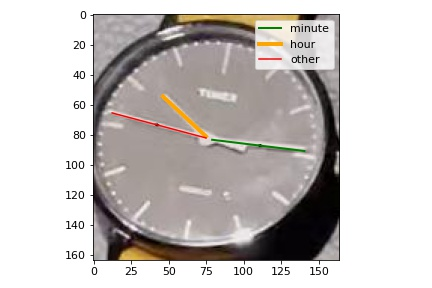
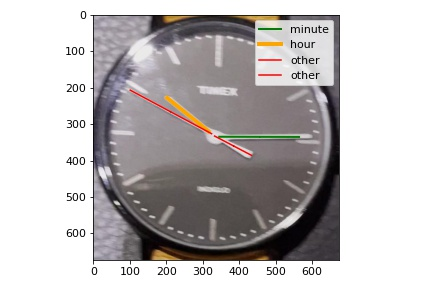
update readme and add new version demo movie

diff --git a/watch_recognition/watch_recognition/predictors.py b/watch_recognition/watch_recognition/predictors.py
@@ -1,13 +1,15 @@
 import dataclasses
 import hashlib
 from functools import lru_cache
-from typing import List, Tuple
+from typing import List, Optional, Tuple
 
 import numpy as np
 import tensorflow as tf
 from PIL import Image
 from PIL.Image import BICUBIC
+from PIL.Image import Image as ImageType
 
+from watch_recognition.models import points_to_time
 from watch_recognition.targets_encoding import (
     decode_single_point,
     extract_points_from_map,
@@ -24,7 +26,9 @@ class KPPredictor:
         self.output_size = tuple(self.model.outputs[0].shape[1:3])
         self.cache = {}
 
-    def predict(self, image: Image) -> List[Point]:
+    def predict(
+        self, image: Image, rotation_predictor: Optional["RotationPredictor"] = None
+    ) -> List[Point]:
         """Runs predictions on a crop of a watch face.
         Returns keypoints in pixel coordinates of the image
         """
@@ -32,6 +36,10 @@ class KPPredictor:
         if image_hash in self.cache:
             return self.cache[image_hash]
         # TODO switch to ImageOps.pad
+        correction_angle = 0
+        if rotation_predictor is not None:
+            image, correction_angle = rotation_predictor.predict_and_correct(image)
+
         with image.resize(self.input_size, BICUBIC) as resized_image:
             image_np = np.expand_dims(resized_image, 0)
             predicted = self.model.predict(image_np)[0]
@@ -54,17 +62,27 @@ class KPPredictor:
             top = sorted(top_points, key=lambda x: x.score)[-1]
             top = dataclasses.replace(top, name="Top")
             top = top.scale(scale_x, scale_y)
+            if correction_angle:
+                center = center.rotate_around_origin_point(
+                    Point(image.width / 2, image.height / 2), angle=correction_angle
+                )
+                top = top.rotate_around_origin_point(
+                    Point(image.width / 2, image.height / 2), angle=correction_angle
+                )
             return [center, top]
 
-    def predict_from_image_and_bbox(self, image: Image, bbox: BBox) -> List[Point]:
+    def predict_from_image_and_bbox(
+        self,
+        image: Image,
+        bbox: BBox,
+        rotation_predictor: Optional["RotationPredictor"] = None,
+    ) -> List[Point]:
         """Runs predictions on full image using bbox to crop area of interest before
         running the model.
         Returns keypoints in pixel coordinates of the image
         """
-        # Returns a rectangular region from this image. The box is a
-        #         4-tuple defining the left, upper, right, and lower pixel
         with image.crop(box=bbox.as_coordinates_tuple) as crop:
-            points = self.predict(crop)
+            points = self.predict(crop, rotation_predictor=rotation_predictor)
             points = [point.translate(bbox.left, bbox.top) for point in points]
             return points
 
@@ -95,7 +113,7 @@ class HandPredictor:
             scale_y = image.height / self.output_size[1]
             center_scaled_to_segmask = center_point.scale(1 / scale_x, 1 / scale_y)
             all_hands_lines = fit_lines_to_hands_mask(
-                predicted, center=center_scaled_to_segmask, debug=False
+                predicted, center=center_scaled_to_segmask
             )
             all_hands_lines = [line.scale(scale_x, scale_y) for line in all_hands_lines]
             return line_selector(all_hands_lines)
@@ -214,7 +232,7 @@ class TFLiteDetector:
         return bboxes
 
 
-def _hash_image(image: Image) -> str:
+def _hash_image(image: ImageType) -> str:
     md5hash = hashlib.md5(image.tobytes())
     return md5hash.hexdigest()
 
@@ -235,10 +253,46 @@ class RotationPredictor:
         with image.resize(self.input_size, BICUBIC) as resized_image:
             image_np = np.expand_dims(resized_image, 0)
             predicted = self.model.predict(image_np)[0]
-            angle = predicted.argmax(axis=1) * self.bin_size
+            angle = predicted.argmax() * self.bin_size
             self.cache[image_hash] = angle
             return angle
 
-    def predict_and_correct(self, image: Image) -> Image:
+    def predict_and_correct(self, image: ImageType) -> Tuple[ImageType, float]:
         angle = self.predict(image)
-        return image.rotate(-angle, resample=BICUBIC)
+        return image.rotate(-angle, resample=BICUBIC), -angle
+
+
+class ClockTimePredictor:
+    def __init__(self):
+        self.detector: TFLiteDetector = ""
+        self.rotation_predictor: RotationPredictor = ""
+        self.kp_predictor: KPPredictor = ""
+        self.hands_predictor: HandPredictor = ""
+
+    def predict(self, image) -> List[BBox]:
+        bboxes = self.detector.predict(image)
+        results = []
+        for box in bboxes:
+            pred_center, pred_top = self.kp_predictor.predict_from_image_and_bbox(
+                image, box, rotation_predictor=self.rotation_predictor
+            )
+            # TODO remove debug drawing and move it to a different method
+            frame = pred_center.draw_marker(frame, thickness=2)
+            frame = pred_top.draw_marker(frame, thickness=2)
+            minute_and_hour, other = self.hands_predictor.predict_from_image_and_bbox(
+                image, box, pred_center
+            )
+            if minute_and_hour:
+                pred_minute, pred_hour = minute_and_hour
+                read_hour, read_minute = points_to_time(
+                    pred_center, pred_hour.end, pred_minute.end, pred_top
+                )
+                frame = pred_minute.draw(frame, thickness=3)
+                frame = pred_minute.end.draw_marker(frame, thickness=2)
+                frame = pred_hour.draw(frame, thickness=5)
+                frame = pred_hour.end.draw_marker(frame, thickness=2)
+
+                time = f"{read_hour:.0f}:{read_minute:.0f}"
+                box = dataclasses.replace(box, name=time)
+                results.append(box)
+        return results

diff --git a/watch_recognition/watch_recognition/utilities.py b/watch_recognition/watch_recognition/utilities.py
@@ -9,6 +9,7 @@ import numpy as np
 from matplotlib import patches
 from matplotlib import pyplot as plt
 from numpy.linalg import LinAlgError
+from numpy.polynomial import Polynomial
 from scipy import odr
 from skimage.measure import approximate_polygon, find_contours, label, regionprops
 
@@ -264,11 +265,17 @@ class Line:
             raise ValueError(f"Need at least 2 points to fit a lint, got {len(points)}")
         x_coords = [p.x for p in points]
         y_coords = [p.y for p in points]
-        poly1d = cls._fit_line(x_coords, y_coords)
         x_min = min(x_coords)
         x_max = max(x_coords)
         y_min = min(y_coords)
         y_max = max(y_coords)
+        # vertical line
+        if np.std(x_coords) < 2:
+            x_const = float(np.mean(x_coords))
+            return Line(Point(x_const, y_min), Point(x_const, y_max))
+
+        # other cases
+        poly1d = cls._fit_line(x_coords, y_coords)
         start = Point(x_min, poly1d(x_min))
         end = Point(x_max, poly1d(x_max))
         window = BBox(x_min, y_min, x_max, y_max, "")
@@ -303,6 +310,9 @@ class Line:
         Returns:
 
         """
+        # poly_coeffs = np.polyfit(x_coords, y_coords, deg=1)
+        # return np.poly1d(poly_coeffs)
+
         poly_model = odr.polynomial(1)
         data = odr.Data(x_coords, y_coords)
         odr_obj = odr.ODR(data, poly_model)
@@ -354,7 +364,7 @@ class Line:
         proj_point_y = m * proj_point_x + k
         return Point(proj_point_x, proj_point_y)
 
-    def plot(self, ax=None, color=None, **kwargs):
+    def plot(self, ax=None, color=None, draw_arrow: bool = True, **kwargs):
         if ax is None:
             ax = plt.gca()
         ax.plot(
@@ -364,18 +374,19 @@ class Line:
             **kwargs,
         )
 
-        dx = np.sign(self.unit_vector[0])
-        dy = self.slope * dx
-        ax.arrow(
-            self.center.x,
-            self.center.y,
-            dx,
-            dy,
-            shape="full",
-            edgecolor="black",
-            facecolor=color,
-            width=0.5,
-        )
+        if draw_arrow:
+            dx = np.sign(self.unit_vector[0])
+            dy = self.slope * dx
+            ax.arrow(
+                self.center.x,
+                self.center.y,
+                dx,
+                dy,
+                shape="full",
+                edgecolor="black",
+                facecolor=color,
+                width=0.5,
+            )
 
     def draw(self, img: np.ndarray, color=(0, 255, 0), thickness=10) -> np.ndarray:
         original_image_np = img.astype(np.uint8)

diff --git a/watch_recognition/watch_recognition/targets_encoding.py b/watch_recognition/watch_recognition/targets_encoding.py
@@ -623,21 +623,9 @@ def fit_lines_to_hands_mask(
                 empty_mask = p.draw(empty_mask, color=color)
             hands[i].plot(ax=ax[1], color="white", lw=2)
         ax[1].imshow(empty_mask)
-    hands = [
-        hand for hand in hands if hand.projection_point(center).distance(center) < 5
-    ]
-    # TODO maybe it's good idea to join lines with opposite angles
-    # for hand in hands:
-    #     print(hand.angle, np.rad2deg(hand.angle), 180 + np.rad2deg(hand.angle))
-    # for hand_1, hand_2 in combinations(hands, 2):
-    #     angle_1 = hand_1.angle
-    #     if angle_1 < 0:
-    #         angle_1 += 180
-    #
-    #     angle_2 = hand_2.angle
-    #     if angle_2 < 0:
-    #         angle_2 += 180
-    #     if
+        plt.tight_layout()
+        plt.savefig("debug_plots.jpg")
+        plt.show()
     return hands
 
 
@@ -646,7 +634,7 @@ def line_selector(all_hands_lines: List[Line]) -> Tuple[Tuple[Line, Line], List[
 
     # nothing to do
     if not all_hands_lines:
-        return tuple(), tuple()
+        return tuple(), []
 
     sorted_lines = sorted(all_hands_lines, key=lambda l: l.length, reverse=False)
     # if there's just one line: count it as both hour and minute hand
@@ -668,10 +656,14 @@ def line_selector(all_hands_lines: List[Line]) -> Tuple[Tuple[Line, Line], List[
         selected_lines = sorted_lines[1:3]
         rejected_lines = sorted_lines[:1] + sorted_lines[3:]
     else:
-        print(f"I don't know what to do with {len(sorted_lines)} recognized hand lines")
-        return [], []
+        n_lines = len(sorted_lines)
+        selected_lines = sorted_lines[n_lines // 2 - 1 : n_lines // 2 + 1]
+        rejected_lines = (
+            sorted_lines[: n_lines // 2 - 1] + sorted_lines[n_lines // 2 + 1 :]
+        )
+    if len(selected_lines) != 2:
         raise NotImplementedError(
-            f"I don't know what to do with 5 recognized hand lines"
+            f"I don't know what to do with {len(sorted_lines)} recognized hand lines"
         )
     # if there are two lines: shorter is hour, longer is minutes
     minute, hour = sorted(selected_lines, key=lambda l: l.length, reverse=True)

diff --git a/README.md b/README.md
@@ -1,7 +1,35 @@
-# Demo
+# Demo - version 2
+
+https://user-images.githubusercontent.com/17779555/151705227-a892424b-279c-4a43-9076-494a55717d0c.mov
+
+models used:
+- bbox detector for finding clock face in the image
+- classifier for clock orientation estimation
+- keypoint detection for center and top
+- semantic segmentation for finding clock hands
+- KDE for splitting the binary segmentation mask into individual clock hands
+### Watch crop with center and top keypoint
+![Alt text](example_data/crop_and_center.jpg?raw=true "Watch crop with center and top")
+### Detected mask of watch hands
+![Alt text](example_data/hands_mask.jpg?raw=true "Detected mask of watch hands")
+### KDE of pixel angles
+![Alt text](example_data/debug_plots.jpg?raw=true "KDE of pixel angles")
+### Fitted lines to segmented pixels
+![Alt text](example_data/fitted_lines.jpg?raw=true "Fitted lines to segmented pixels")
+### Final selected and rejected lines
+![Alt text](example_data/selected_lines.jpg?raw=true "Selected and rejected lines")
+
+## Models description
+_TODO_
+
+# Demo - version 1
 
 https://user-images.githubusercontent.com/17779555/136506927-d326381b-6d54-4c2a-91a8-aa0fee89ba36.mov
 
+models used:
+- bbox detector for finding clock face in the image
+- classifier for clock orientation
+- keypoint detection for center, top and end of clock hands
 
 # Downloading images from OpenImage Dataset
 
